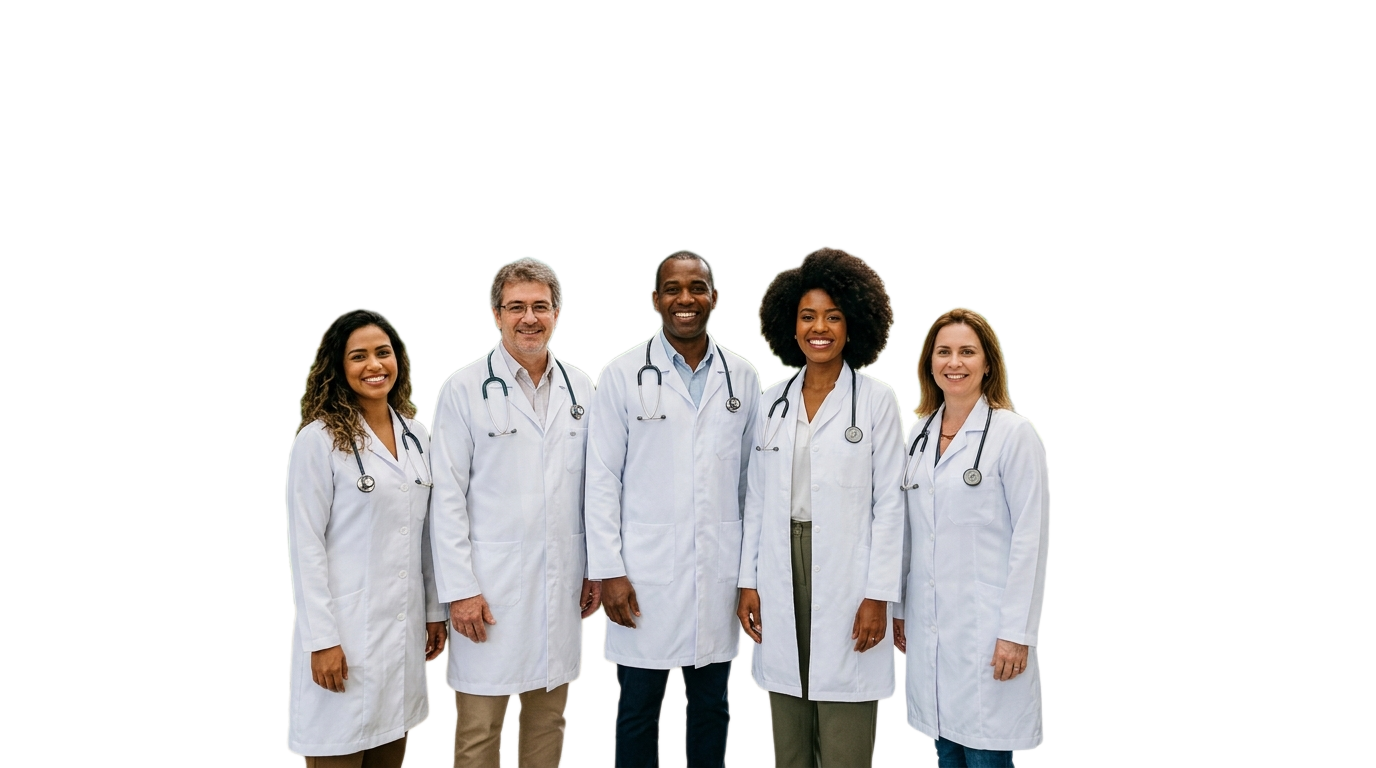
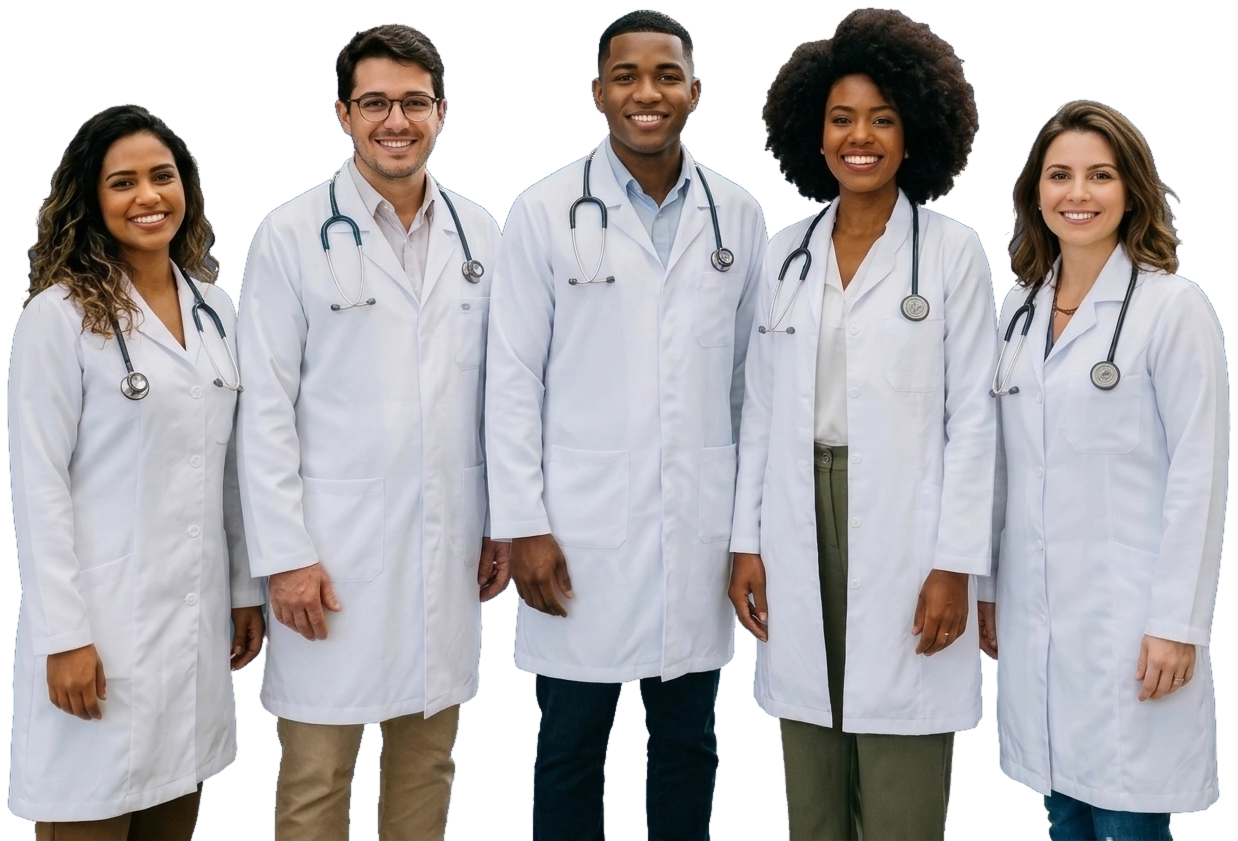
feat(hero): update hero doctors photo to younger residents (25-35 years)

diff --git a/index.html b/index.html
@@ -125,8 +125,8 @@
         <!-- CAMADA 3 (Frente - z-20): Médicos Brasileiros Recortados em WebP Transparente (Sobrepostos ao Texto!) -->
         <div id="hero-doctors-layer" class="hero-layer-doctors">
             <img src="assets/img/medicos-cutout.webp" 
-                 width="780"
-                 height="530"
+                 width="960"
+                 height="652"
                  fetchpriority="high"
                  decoding="async"
                  alt="Equipe de Médicos Brasileiros da Faculdade de Medicina da UFF" 
